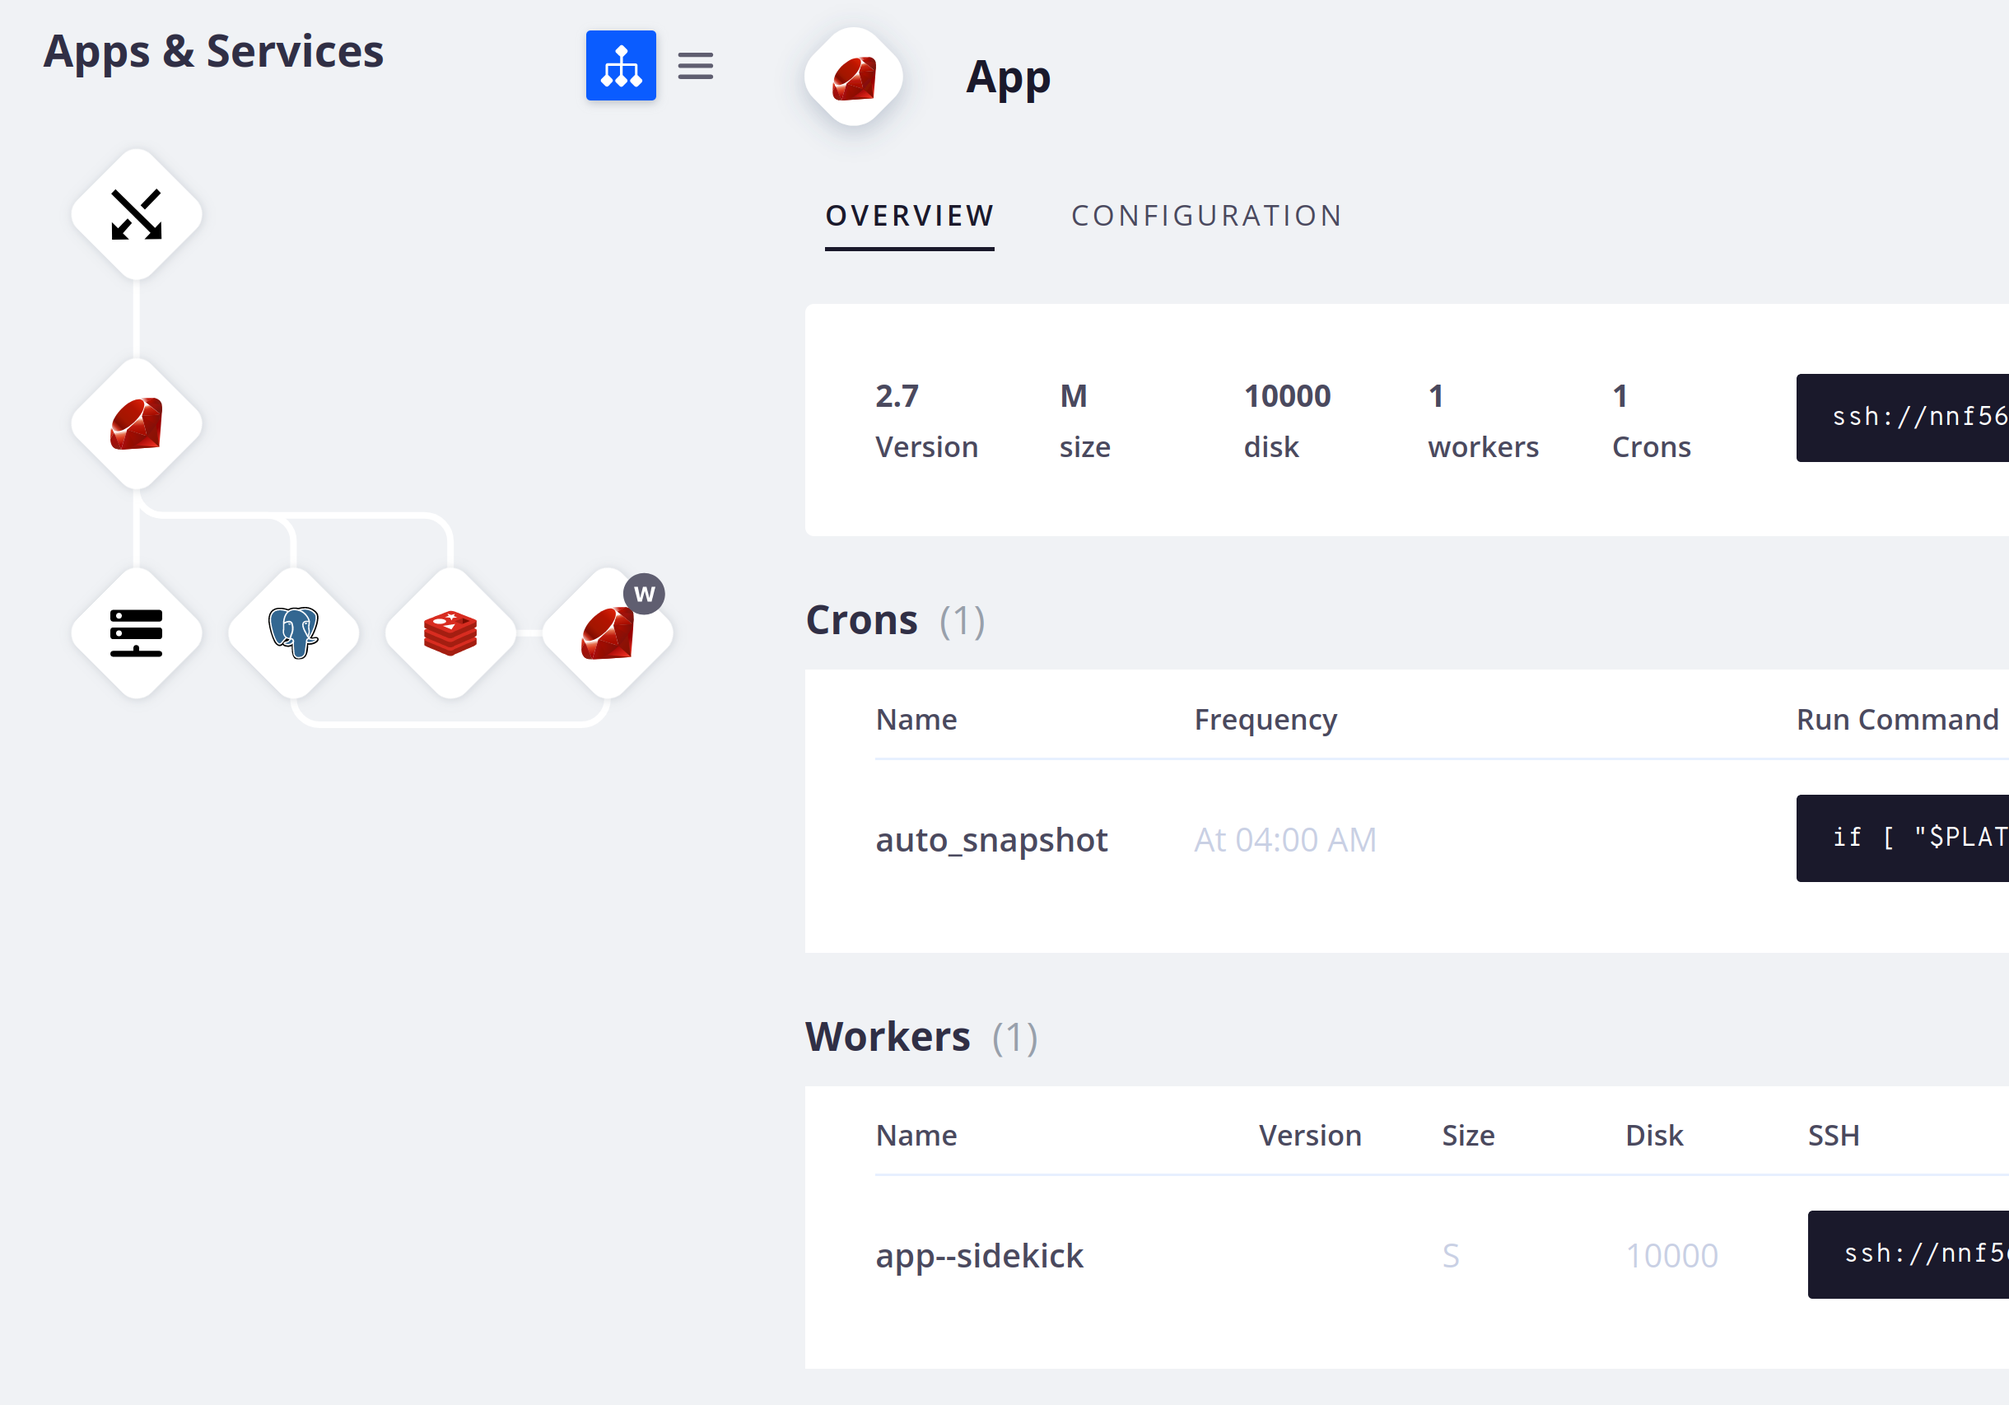
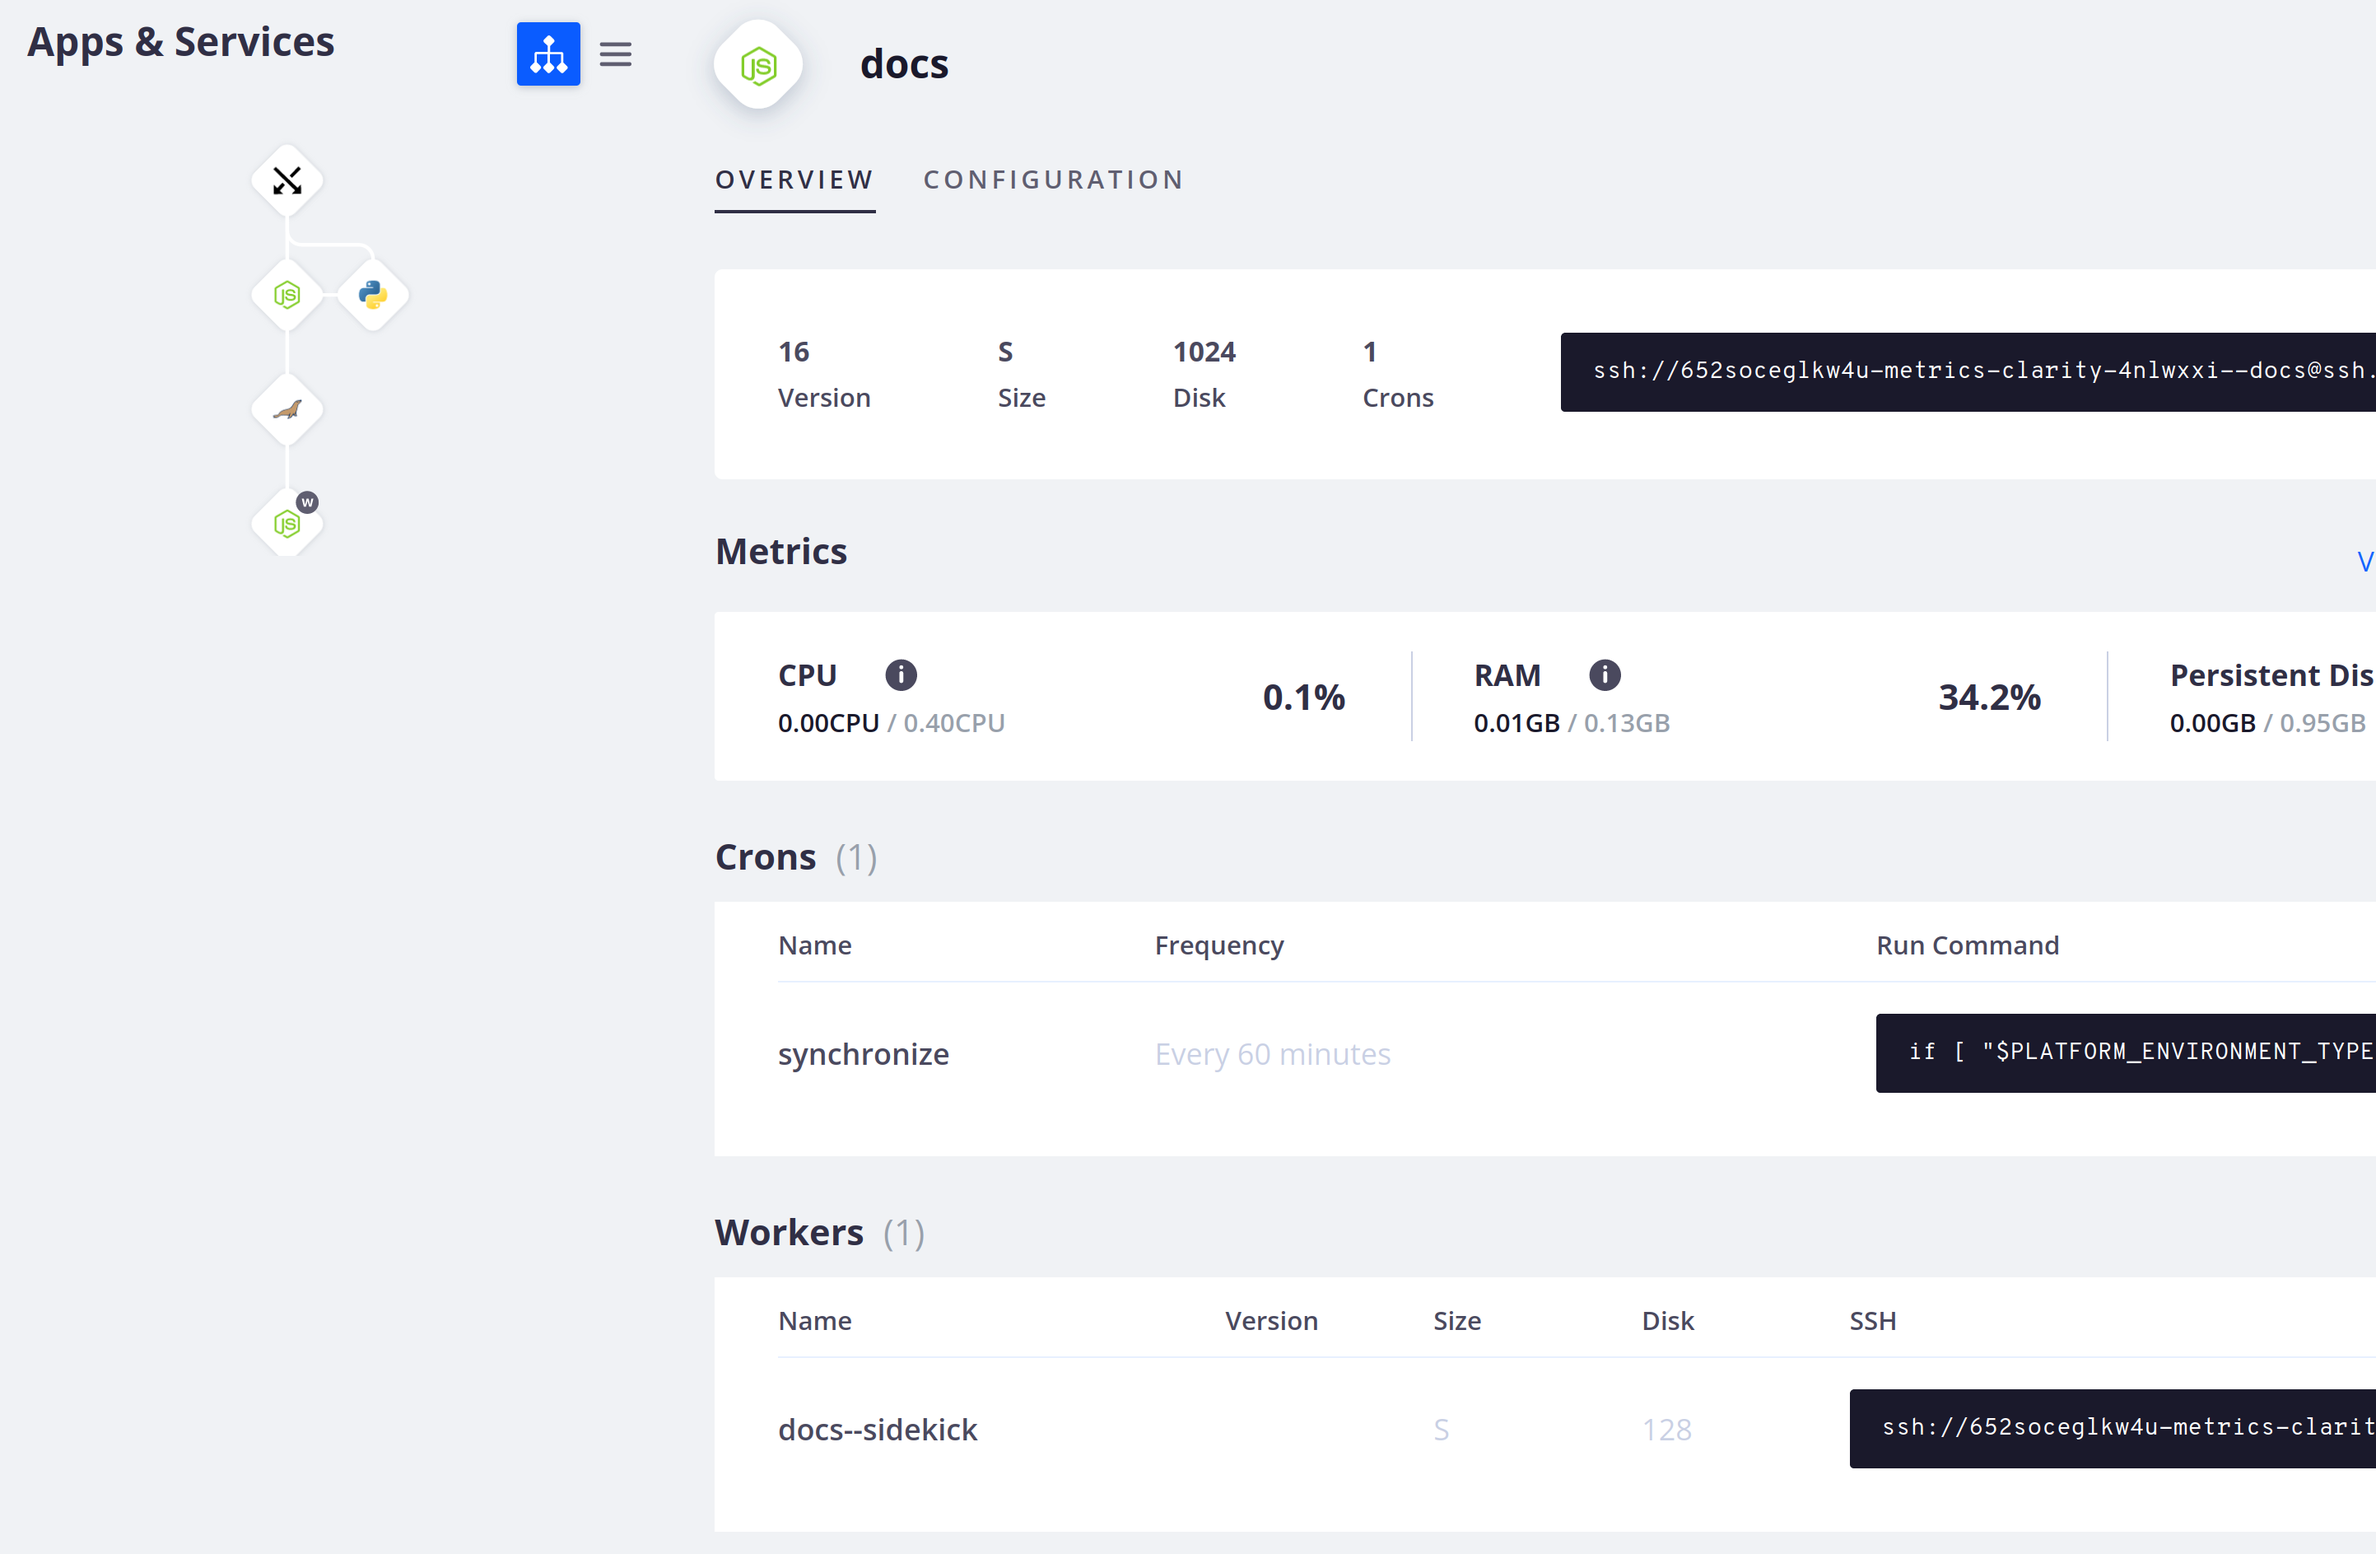
📝 Note metrics available under Services

diff --git a/docs/src/administration/web/configure-environment.md b/docs/src/administration/web/configure-environment.md
@@ -118,9 +118,13 @@ select it in the tree or list on the left-hand side:
 ![Services: app overview](/images/management-console/service-tab/app-overview.png "0.5")
 
 The **Overview** tab gives you information about your app.
-You can see the language version, the container size, the amount of persistent disk,
-the number of active workers and cron jobs, and the command to SSH into the container.
-You can also see all cron jobs with their name, frequency, and command.
+You can see:
+
+* The language version, the container size, the amount of persistent disk,
+  the number of cron jobs, and the command to SSH into the container.
+* A summary of [metrics for the environment](../../increase-observability/metrics/_index.md).
+* All cron jobs with their name, frequency, and command.
+* All workers with their name, size, amount of persistent disk, and command to SSH into the container.
 
 To view [the configuration file where your app is set up](../../create-apps/), click **Configuration**.
 
@@ -133,5 +137,6 @@ select it in the tree or list on the left-hand side:
 
 The **Overview** gives you information about the selected service.
 You can see the service version, the container size, and the disk size, if you've configured a persistent disk.
+You can also see a summary of [metrics for the environment](../../increase-observability/metrics/_index.md).
 
 To view the configuration file where your services are set up, click **Configuration**.

diff --git a/docs/src/increase-observability/metrics/grid.md b/docs/src/increase-observability/metrics/grid.md
@@ -14,6 +14,9 @@ Infrastructure metrics report CPU, RAM, and disk space for app and worker contai
 and CPU and disk space for service containers.
 These metrics are available for all of your Grid environments.
 
+Summaries of the metrics for each container separately can be seen in the Console under **Services** for a given environment.
+The full details are available under **Metrics**.
+
 App containers are shown first, with the app name and an image corresponding to the app type.
 Service containers follow next with the same pattern and worker containers are shown last.
 
